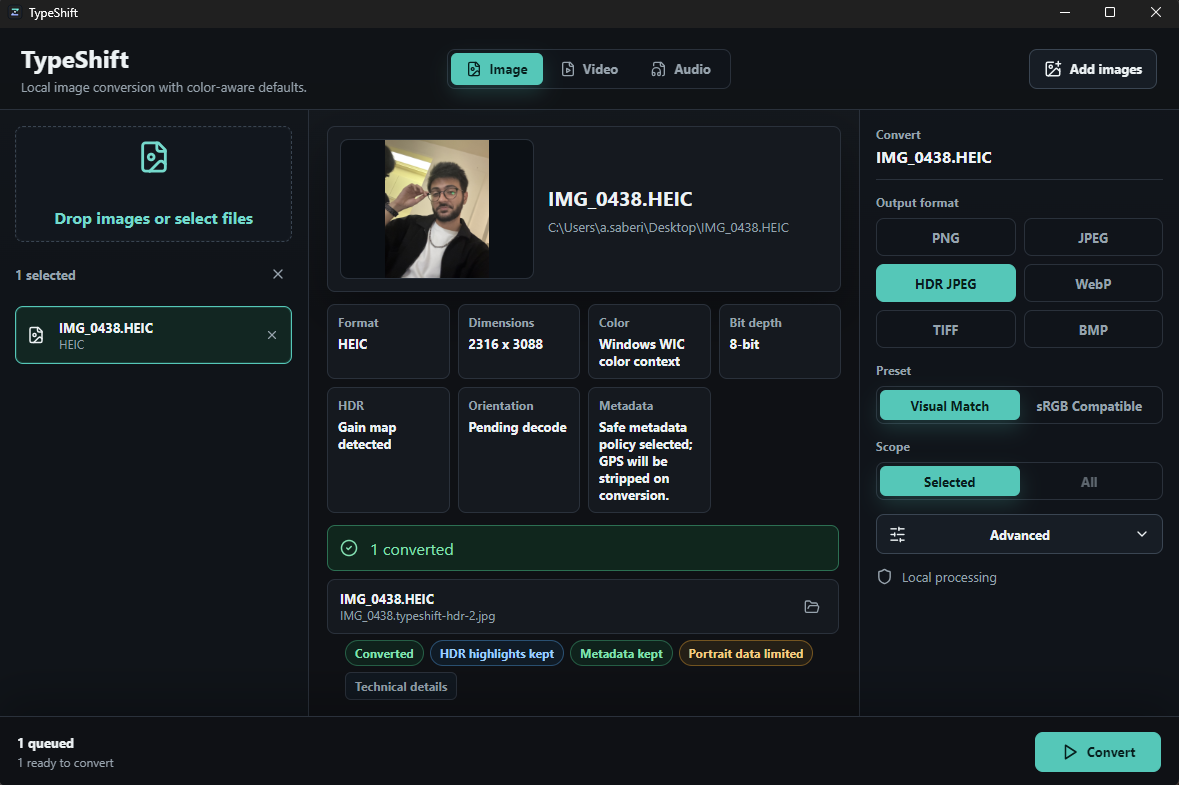
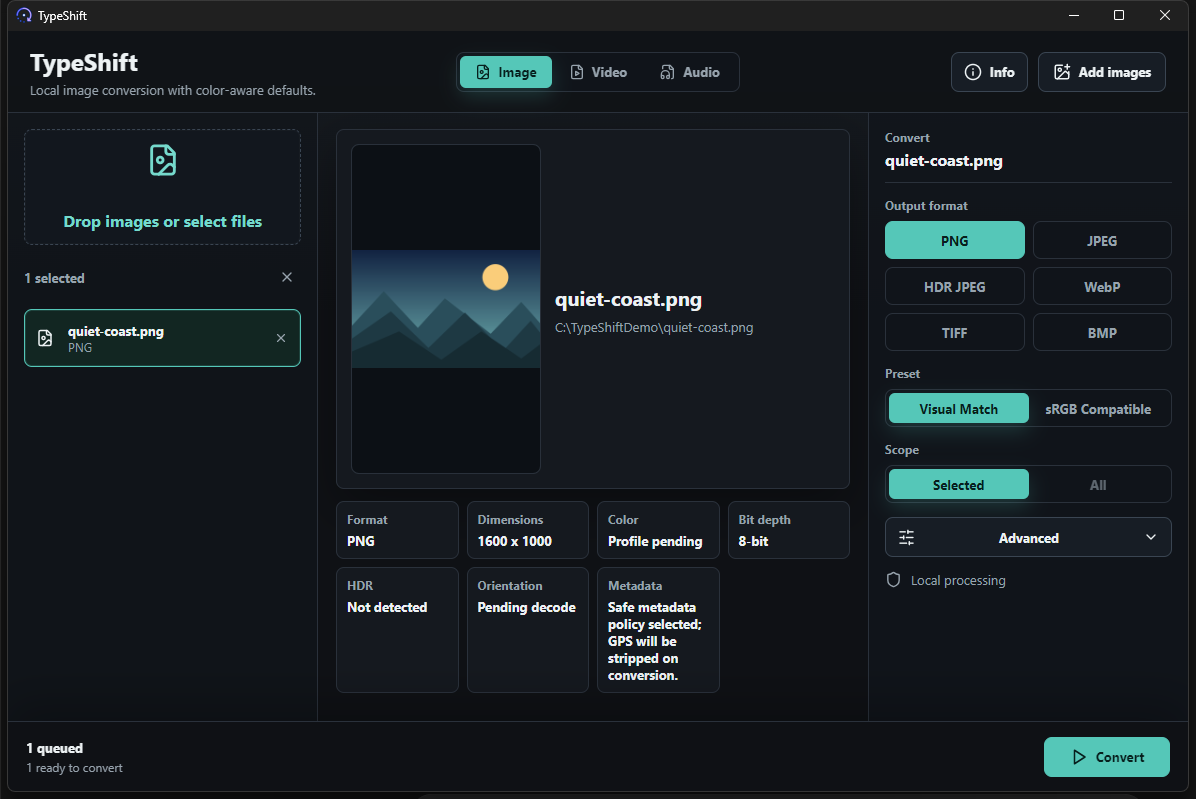
Prepare Windows release packaging and clean demos

diff --git a/README.md b/README.md
@@ -3,8 +3,8 @@
 TypeShift is a Windows-first local media converter built with Tauri, React,
 TypeScript, and Rust. The current working module focuses on image conversion
 with careful handling for HEIC/HEIF sources, metadata policy, and HDR/gain-map
-output. Video and audio workspaces are reserved in the UI for future converter
-modules.
+output. The video workspace is implemented; the audio workspace is reserved
+for a future converter module.
 
 ## Screenshots
 
@@ -12,9 +12,13 @@ modules.
 
 ![TypeShift empty image workspace](ss/1.png)
 
-### HEIC Conversion Result
+### Sample Image in Queue
 
-![TypeShift HEIC conversion result](ss/2.png)
+![TypeShift image workspace with a generated sample image](ss/2.png)
+
+The repository includes a synthetic image for safe demos and manual checks:
+[quiet-coast.png](docs/sample-data/quiet-coast.png). It contains no personal
+photo or identifying metadata.
 
 ## Current Features
 
@@ -31,13 +35,12 @@ modules.
 - Safe metadata mode strips GPS/location metadata after copy.
 - HDR JPEG mode uses the native HEIC primary/gain-map path and refuses SDR
   fallback for that target.
-- Image, Video, and Audio top-level tabs are present; Image is implemented,
-  while Video and Audio are reserved for future modules.
+- Image and Video conversion workspaces are implemented. Audio is currently a
+  reserved workspace.
 - In-app Info panel shows creator, ownership, license status, and opens
   [amirsrad.ir](https://amirsrad.ir) in the system browser.
-- Video and audio conversion use FFmpeg/FFprobe. The backend discovers tools
-  beside the executable or on PATH; local development can use
-  `src-tauri/bin/ffmpeg/`.
+- Video conversion uses FFmpeg/FFprobe. The backend discovers tools beside the
+  executable or on PATH; local development can use `src-tauri/bin/ffmpeg/`.
 
 ## Status
 
@@ -59,6 +62,7 @@ src/                 React + TypeScript frontend
 src-tauri/src/       Rust Tauri commands and conversion engine
 src-tauri/vendor/    Patched vendored libheif-sys dependency
 docs/                Image pipeline and native dependency notes
+docs/sample-data/    Generated, metadata-free demo image
 ```
 
 ## Developer Documentation
@@ -78,6 +82,25 @@ docs/                Image pipeline and native dependency notes
 - Ownership: TypeShift application code, branding, UI design, and original
   project assets are owned by Amirsalar Saberi rad.
 
+## Windows installation
+
+Windows release builds produce an NSIS setup executable and an MSI installer.
+The NSIS setup installs for the current user and adds a shortcut under
+**Start Menu → TypeShift**. The app does not start automatically when Windows
+starts; add the shortcut to the Startup folder yourself if you want that.
+
+The installer uses Tauri's WebView2 bootstrapper mode. Windows 10/11 normally
+provides WebView2; a machine missing the runtime needs an internet connection
+during installation. Release installers are not code-signed yet. Windows can
+show an unknown-publisher or SmartScreen warning; configure trusted
+Authenticode signing before a public release.
+
+Video conversion requires compatible `ffmpeg.exe` and `ffprobe.exe`
+beside the installed app in an `ffmpeg/` folder, or FFmpeg available on PATH.
+Those binaries are not included in the public repository or default installer.
+Before redistributing FFmpeg, review the exact build's license and codec
+configuration and include the required notices.
+
 ## Prerequisites
 
 - Windows 10/11
@@ -85,11 +108,8 @@ docs/                Image pipeline and native dependency notes
 - Rust stable
 - Tauri v2 CLI through `npm`
 - Visual Studio Build Tools for Rust/Tauri native builds
-- Native dependency environment used by the current project:
-  - `VCPKG_ROOT=C:\vcpkg-master`
-  - `CMAKE_GENERATOR=Ninja`
-  - `CMAKE_PREFIX_PATH=C:\vcpkg-master\installed\x64-windows-static-md`
-  - `PKG_CONFIG=C:\vcpkg-master\downloads\tools\msys2\1e74ca60daa10104\mingw64\bin\pkg-config.exe`
+- For native HEIC/HDR builds: the native dependencies and environment described
+  in [Native dependencies](docs/native-dependencies.md)
 
 JPEG metadata copying is built into the Rust app. It preserves standard
 EXIF/XMP/ICC data for JPEG outputs, normalizes orientation after pixels are
@@ -120,30 +140,29 @@ cargo test --features native-heif
 
 ## Release Build
 
-Use Tauri for release builds so the frontend is embedded in the executable.
-Plain `cargo build --release` is not enough for this app because it can leave
-the executable pointing at the development server.
+Use Tauri for release builds so the frontend is embedded in the executable and
+the configured Windows installers are packaged. Plain `cargo build --release`
+is not enough because it can leave the executable pointing at the dev server.
 
-Build the release executable without MSI/installer output:
+Build the Windows installers:
+
+For native HEIC/HDR support, set up the local Windows build variables in
+[Native dependencies](docs/native-dependencies.md) first.
 
 ```powershell
-$env:VCPKG_ROOT='C:\vcpkg-master'
-$env:CMAKE_GENERATOR='Ninja'
-$env:CMAKE_PREFIX_PATH='C:\vcpkg-master\installed\x64-windows-static-md'
-$env:PKG_CONFIG='C:\vcpkg-master\downloads\tools\msys2\1e74ca60daa10104\mingw64\bin\pkg-config.exe'
-npx tauri build --no-bundle --features native-heif
+npm run tauri -- build --features native-heif
 ```
 
-The executable is written to:
+The Windows setup executable and MSI are written under:
 
 ```text
-src-tauri/target/release/typeshift.exe
+src-tauri/target/release/bundle/nsis/
+src-tauri/target/release/bundle/msi/
 ```
 
-For standalone video/audio builds, provide compatible `ffmpeg.exe` and
-`ffprobe.exe` in an `ffmpeg/` folder next to the executable, or ensure FFmpeg
-is available on PATH. The large FFmpeg executables are not stored in this Git
-repository.
+The standalone executable is at `src-tauri/target/release/typeshift.exe`.
+Use the NSIS `.exe` for a guided setup and the MSI for Windows Installer tools.
+Configure Authenticode signing before distributing a public release broadly.
 
 ## Git Notes
 
@@ -154,10 +173,13 @@ Generated output is ignored, including:
 - `src-tauri/target*/`
 - `src-tauri/gen/`
 - local converted outputs such as `*.typeshift.*`
-- local sample HEIC files
+- local HEIC/HEIF photo samples
+- local FFmpeg tools in `src-tauri/bin/ffmpeg/`
+- `.freebuff/` task metadata
 
-Do not commit personal photo samples. Add sanitized fixtures later under a
-dedicated fixture folder when the test suite is ready for them.
+The only committed sample image is the generated, metadata-free fixture under
+`docs/sample-data/`. Do not add personal photos or screenshots that expose
+private image content, names, or file paths.
 
 ## License
 

diff --git a/docs/developer-workflows.md b/docs/developer-workflows.md
@@ -42,26 +42,23 @@ npm run build
 
 ```powershell
 cd src-tauri
-$env:VCPKG_ROOT='C:\vcpkg-master'
-$env:CMAKE_GENERATOR='Ninja'
-$env:CMAKE_PREFIX_PATH='C:\vcpkg-master\installed\x64-windows-static-md'
-$env:PKG_CONFIG='C:\vcpkg-master\downloads\tools\msys2\1e74ca60daa10104\mingw64\bin\pkg-config.exe'
 cargo test --features native-heif
 ```
 
+Configure the native dependency environment first as described in
+[`native-dependencies.md`](native-dependencies.md).
+
 Some local fixture tests are ignored by default because they require private
-sample photos. Do not commit personal HEIC samples.
+sample photos. The generated `docs/sample-data/quiet-coast.png` fixture is safe
+to commit; do not commit personal HEIC samples.
 
-## Build Release Exe
+## Build Windows Installers
 
-Do not build MSI installers during normal development.
+This creates the NSIS setup executable and MSI packages configured for Windows
+releases. For a faster local executable-only build, add `--no-bundle`.
 
 ```powershell
-$env:VCPKG_ROOT='C:\vcpkg-master'
-$env:CMAKE_GENERATOR='Ninja'
-$env:CMAKE_PREFIX_PATH='C:\vcpkg-master\installed\x64-windows-static-md'
-$env:PKG_CONFIG='C:\vcpkg-master\downloads\tools\msys2\1e74ca60daa10104\mingw64\bin\pkg-config.exe'
-npx tauri build --no-bundle --features native-heif
+npm run tauri -- build --features native-heif
 ```
 
 The executable is:
@@ -102,7 +99,9 @@ Ignored files include:
 - `src-tauri/target/`,
 - `src-tauri/gen/`,
 - local converted outputs,
-- local sample HEIC files.
+- local HEIC/HEIF photo samples,
+- local FFmpeg binaries,
+- `.freebuff/` task metadata.
 
 Use `git status --short --ignored` when checking that build artifacts and
 private samples are not staged.

diff --git a/docs/native-dependencies.md b/docs/native-dependencies.md
@@ -14,6 +14,20 @@ instead of depending on installed system codecs.
 
 ## Current Implementation Status
 
+On Windows, native HEIC builds need CMake/Ninja and a vcpkg installation with
+the project dependencies available through `CMAKE_PREFIX_PATH`. Point these
+variables at your local toolchain before building with `--features native-heif`:
+
+```powershell
+$env:VCPKG_ROOT = 'C:\path\to\vcpkg'
+$env:CMAKE_GENERATOR = 'Ninja'
+$env:CMAKE_PREFIX_PATH = Join-Path $env:VCPKG_ROOT 'installed\x64-windows-static-md'
+$env:PKG_CONFIG = 'C:\path\to\pkg-config.exe'
+```
+
+The paths are machine-specific and must not be committed to project
+documentation.
+
 The Tauri/Rust app now includes two HEIC-related paths:
 
 - a native `libheif` path, enabled by the `native-heif` feature, for HEIC
@@ -41,9 +55,11 @@ and PATH. For development it also checks `src-tauri/bin/ffmpeg/`.
 - Standalone distributions must include `ffmpeg.exe` and `ffprobe.exe` in the
   `ffmpeg/` folder or require FFmpeg on PATH. The binaries are not tracked in
   Git because each is larger than GitHub's ordinary file size limit.
-- The static BtbN GPL build includes the encoders the app requires
-  (`libx264`, `libvpx-vp9`, `libopus`, `aac`); the backend scans for them and
-  reports a degraded status if they are missing.
+- The static BtbN build used during development includes encoders the app
+  requires (`libx264`, `libvpx-vp9`, `libopus`, `aac`); the backend scans for
+  them and reports a degraded status if they are missing. Confirm the exact
+  build's license and redistribution requirements before shipping it with the
+  proprietary app, and include applicable notices.
 
 ## Packaging Requirements
 

diff --git a/docs/developer-overview.md b/docs/developer-overview.md
@@ -163,21 +163,16 @@ Rust checks:
 
 ```powershell
 cd src-tauri
-$env:VCPKG_ROOT='C:\vcpkg-master'
-$env:CMAKE_GENERATOR='Ninja'
-$env:CMAKE_PREFIX_PATH='C:\vcpkg-master\installed\x64-windows-static-md'
-$env:PKG_CONFIG='C:\vcpkg-master\downloads\tools\msys2\1e74ca60daa10104\mingw64\bin\pkg-config.exe'
 cargo test --features native-heif
 ```
 
-Release build without MSI:
+Configure the native dependency environment first as described in
+[`native-dependencies.md`](native-dependencies.md).
+
+Build the Windows setup executable and MSI:
 
 ```powershell
-$env:VCPKG_ROOT='C:\vcpkg-master'
-$env:CMAKE_GENERATOR='Ninja'
-$env:CMAKE_PREFIX_PATH='C:\vcpkg-master\installed\x64-windows-static-md'
-$env:PKG_CONFIG='C:\vcpkg-master\downloads\tools\msys2\1e74ca60daa10104\mingw64\bin\pkg-config.exe'
-npx tauri build --no-bundle --features native-heif
+npm run tauri -- build --features native-heif
 ```
 
 The release executable is written to:
